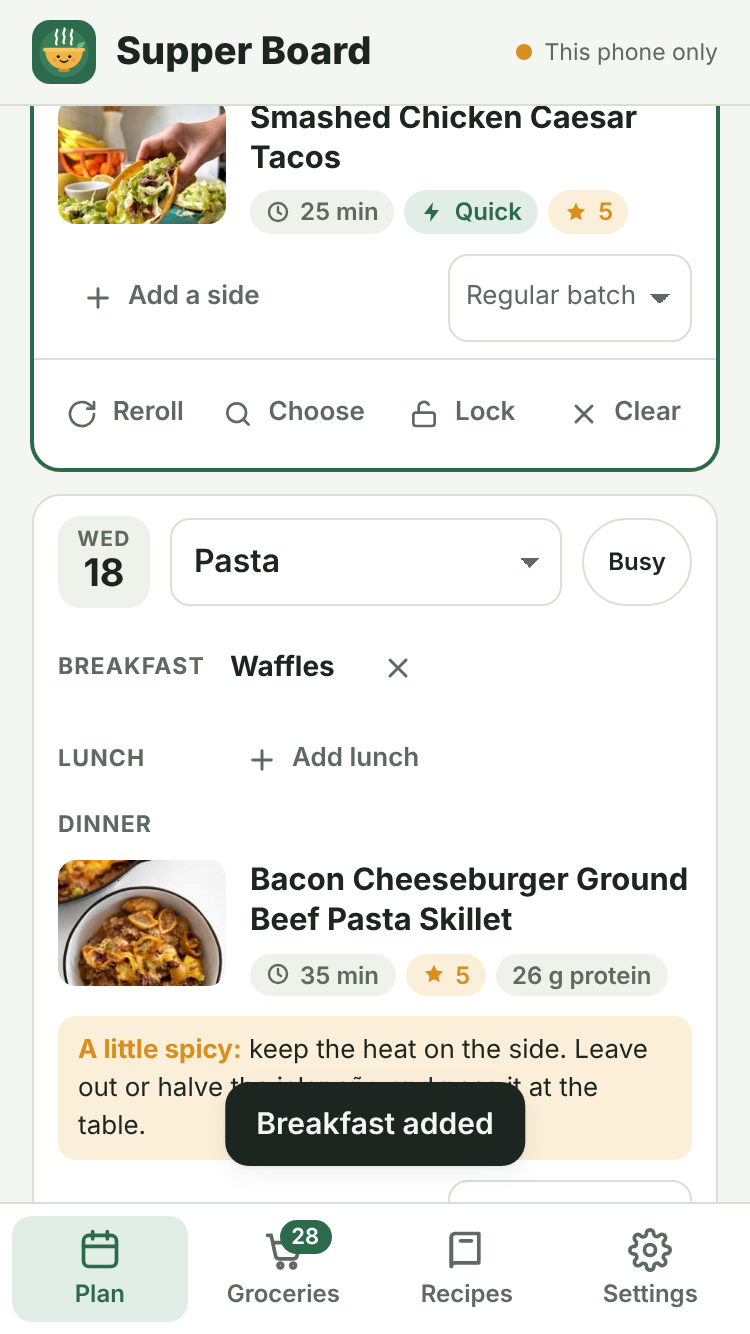
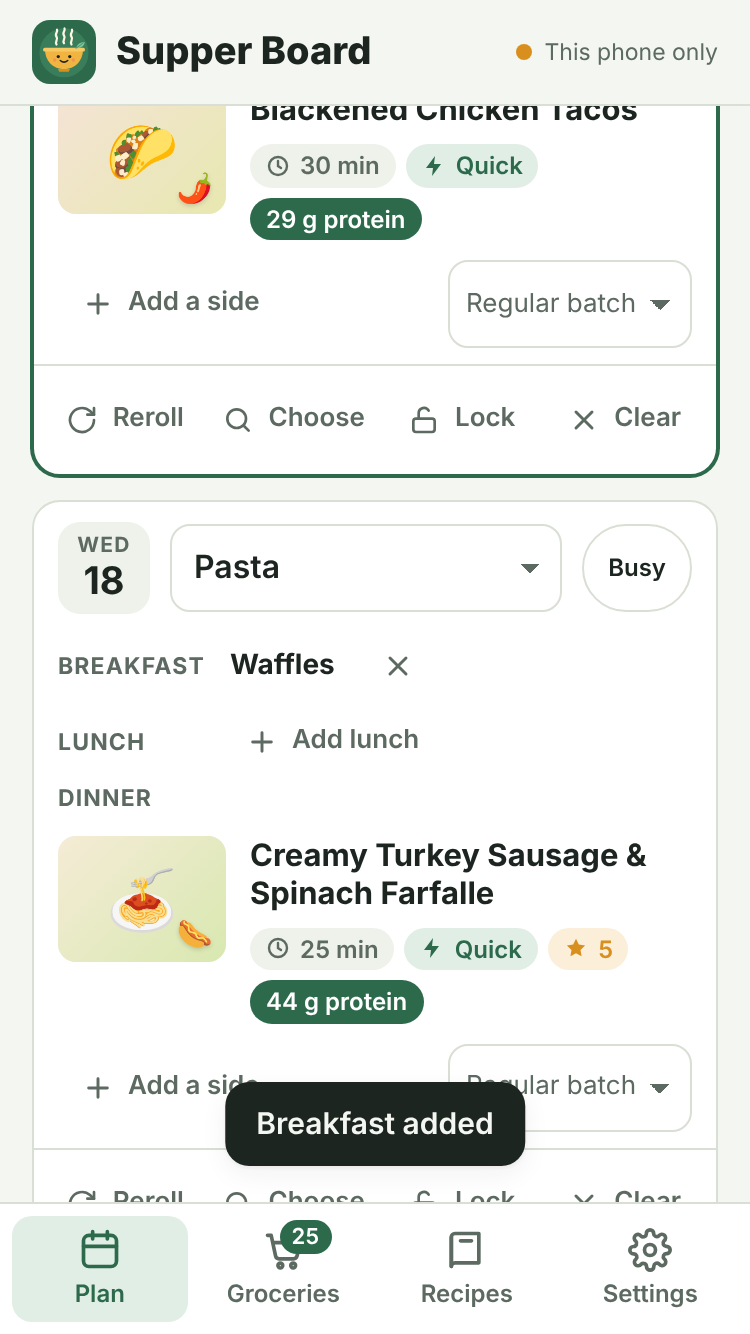
Breakfast and lunch: 44 px controls, meal count includes them, claude.ai storage test covers them
Claude-Session: https://claude.ai/code/session_017kJ1e6KSAo4vTWLXFkFScY

diff --git a/index.html b/index.html
@@ -158,8 +158,9 @@ select{appearance:none;background-image:linear-gradient(45deg,transparent 50%,va
 .meal-line .btn{font-size:13px;white-space:normal;text-align:left}
 .meal-line .btn[data-open]{flex:0 1 auto;min-width:0}
 .meal-line .ml-name{flex:1 0 100%;display:flex;align-items:center;gap:6px}
-.meal-line .scale-sel{margin-left:auto;min-height:36px;padding-top:2px;padding-bottom:2px;font-size:13px;width:auto}
-.meal-line .btn.sm,.meal-line .btn.icon{min-height:36px}
+.meal-line .scale-sel{margin:-4px 0 -4px auto;min-height:44px;font-size:13px;width:auto}
+.meal-line .btn.sm,.meal-line .btn.icon{min-height:44px;margin:-4px 0}
+.meal-line .btn.icon{min-width:44px}
 .side-line button{font-size:13px}
 .tip{margin:0 12px 10px;font-size:13px;background:var(--tomato-soft);border-radius:9px;padding:8px 10px;color:var(--ink)}
 .tip b{color:var(--tomato)}
@@ -1900,12 +1901,13 @@ function groceryModel(){
       });
     }
   }
-  const noRecipe = [];
+  const noRecipe = []; let slotMeals = 0;
   for (const [dk, day] of Object.entries(w.days)) {
     if (from && dk < from) continue;
     for (const sl of daySlots(day)) {
       const night = DOW[parseISO(dk).getDay()] + ' ' + sl.label.toLowerCase();
       if (!sl.r) { if (!/^(leftovers?|eat(ing)? out|take-?out|[\w ]+ out|nothing)$/i.test(sl.t.trim())) noRecipe.push({day: dk, label: sl.label, text: sl.t}); continue; }
+      slotMeals++;
       ingOf(sl.r).map(it0 => grocerySwap(it0, sl.r)).forEach(it => add(sl.s !== 1 && it.qty != null ? {...it, qty: it.qty * sl.s} : it, sl.r.n, night));
     }
   }
@@ -1932,7 +1934,7 @@ function groceryModel(){
   const extras = w.extras || [];
   const all = [...Object.values(groups).map(g=>g.k), ...staples.map(s=>'staple|'+s.name), ...extras.map(e=>'extra|'+e.id)];
   const remaining = all.filter(k => !(w.checked||{})[k]).length;
-  return {fromFridge, w, groups, pantryHits, staples, extras, remaining, total: all.length, from, skipped, noRecipe};
+  return {fromFridge, w, groups, pantryHits, staples, extras, remaining, total: all.length, from, skipped, noRecipe, slotMeals};
 }
 const singularize = k => k.split(' ').map((x, i, a) => i === a.length - 1 ? singular(x) : x).join(' ');
 const WM_CART = 'https://affil.walmart.com/cart/addToCart?items=';
@@ -2592,7 +2594,7 @@ function viewGrocery(){
   const wm = walmartModel(m); const n = wm.mapped.length;
   const left = m.remaining;
   const t = new Date(); const midweek = groceryFrom({...w, listAll: false});
-  return `<div class="g-wrap"><div class="section-h"><div><div class="label">${m.from ? `${esc(fmtD(parseISO(m.from)))} – ${MON[dates[6].getMonth()]} ${dates[6].getDate()}` : `${MON[dates[0].getMonth()]} ${dates[0].getDate()} – ${MON[dates[6].getMonth()]} ${dates[6].getDate()}`} · ${planned} meal${planned === 1 ? '' : 's'}</div><h1>Grocery list</h1></div>
+  return `<div class="g-wrap"><div class="section-h"><div><div class="label">${m.from ? `${esc(fmtD(parseISO(m.from)))} – ${MON[dates[6].getMonth()]} ${dates[6].getDate()}` : `${MON[dates[0].getMonth()]} ${dates[0].getDate()} – ${MON[dates[6].getMonth()]} ${dates[6].getDate()}`} · ${planned + (m.slotMeals || 0)} meal${planned + (m.slotMeals || 0) === 1 ? '' : 's'}</div><h1>Grocery list</h1></div>
     <div class="row"><button class="btn" data-act="copylist" ${m.total?'':'disabled'}>${I.share}Send list</button></div></div>
     ${(() => { const ents = groceryEntries(m).filter(e => !e.checked); const nS = ents.filter(e => e.store === 'sams').length, nW = ents.length - nS;
       // In the store the list comes first: one compact row for ordering, and a sticky bar with progress and the store filter.
@@ -3403,7 +3405,7 @@ if (/[?&]debug\b/.test(location.search)) window.__T = {menuText, daySlots, prote
 boot();
 // ---------- updates (GitHub Pages) ----------
 // Home-screen apps keep running an old copy, so check for a newer version when the app is opened or brought back.
-const APP_VERSION = '2026-11-17.2';
+const APP_VERSION = '2026-11-17.3';
 let updateShown = false;
 let lastCheck = 0;
 async function checkForUpdate(){

diff --git a/tests/claude-artifact-smoke.js b/tests/claude-artifact-smoke.js
@@ -13,7 +13,11 @@ await p.click('[data-act="generate"]');await p.waitForTimeout(600);
 console.log('planned',await p.evaluate(()=>Object.values(__T.getWeek(__T.curStart()).days).filter(d=>d.rid).length));
 await p.$eval('.tab[data-view="grocery"]',e=>e.click());await p.waitForTimeout(300);const ck=await p.$('input.check');await ck.click();await p.waitForTimeout(900);
 const before=await p.evaluate(()=>Object.keys(__T.getWeek(__T.curStart()).checked||{}).length);
+await p.$eval('.tab[data-view="settings"]',e=>e.click());await p.waitForTimeout(300);await p.$eval('[data-meal-slot="b"]',e=>e.click());await p.waitForTimeout(300);await p.$eval('.tab[data-view="plan"]',e=>e.click());await p.waitForTimeout(300);
+await p.evaluate(()=>document.querySelector('[data-act="meal"][data-slot="b"]').click());await p.waitForTimeout(300);await p.fill('#meal-text','Pancakes');await p.press('#meal-text','Enter');await p.waitForTimeout(900);
+console.log('breakfast saved before reload',await p.evaluate(()=>Object.values(__T.getWeek(__T.curStart()).days).filter(d=>d.b&&d.b.t==='Pancakes').length));
 await p.reload();await p.waitForSelector('.tab');await p.waitForTimeout(1200);
+console.log('after reload: switch, breakfasts',await p.evaluate(()=>[__T.S.settings.mealB,Object.values(__T.getWeek(__T.curStart()).days).filter(d=>d.b&&d.b.t==='Pancakes').length]));
 console.log('checked before/after reload',before,await p.evaluate(()=>Object.keys(__T.getWeek(__T.curStart()).checked||{}).length),'planned after reload',await p.evaluate(()=>Object.values(__T.getWeek(__T.curStart()).days).filter(d=>d.rid).length));
 await p.$eval('.tab[data-view="settings"]',e=>e.click());await p.waitForTimeout(300);
 console.log('errors',errs);await b.close()})();
